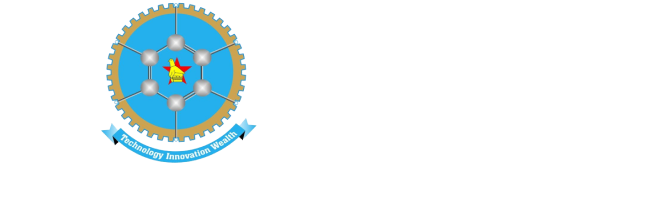
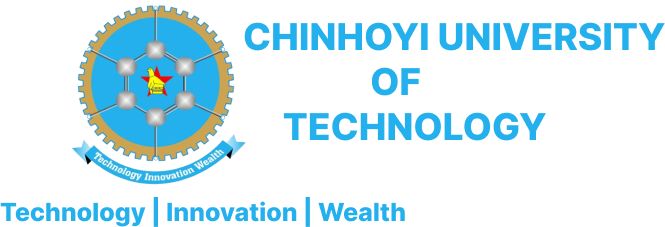
commit

diff --git a/src/assets/css/style.css b/src/assets/css/style.css
@@ -13,14 +13,14 @@ html {
 
 body {
   line-height: 1.7;
-  font-family: "Montserrat", sans-serif;
+  font-family: 'Poppins', sans-serif;
   -webkit-font-smoothing: antialiased;
   font-size: 16px;
   color: #464646;
 }
 
 h1, .h1, h2, .h2, h3, .h3, h4, .h4, h5, .h5, h6, .h6 {
-  font-family: "Bitter", serif;
+font-family: 'Raleway', sans-serif;
   font-weight: 900;
   color: #232323;
 }
@@ -28,8 +28,8 @@ h1, .h1, h2, .h2, h3, .h3, h4, .h4, h5, .h5, h6, .h6 {
 
 
 .navbar{
-  background-color: #24b0ed;
-  
+  background-color: #fff;
+  height: 70px;
 }
 
 h1, .h1 {
@@ -307,7 +307,7 @@ a {
 }
 
 a:focus, a:hover {
-  color: #caa555;
+  color: #435AC3;
   text-decoration: none;
 }
 
@@ -531,6 +531,7 @@ ul.list-styled {
 }
 #navbar li.navbar-item:last-child .navbar-link {
   padding-right: 0;
+  text-decoration: none !important;
 }
 @media (max-width: 1023px) {
   #navbar li.navbar-item:last-child .navbar-link {
@@ -539,16 +540,17 @@ ul.list-styled {
 }
 #navbar .navbar-link {
   font-family: "Montserrat", sans-serif;
-  color: #fff;
+  color: #0a0a0a;
   background-color: transparent !important;
   text-transform: capitalize;
-  font-weight: 300;
-  padding: 30px 17px;
+  font-weight: 200;
+  text-decoration: none;
+  padding: 17px 17px;
   transition: all 0.25s ease;
 }
 @media (max-width: 1215px) {
   #navbar .navbar-link {
-    padding: 30px 14px;
+    padding: 20px 14px;
     font-size: 15px;
   }
 }
@@ -566,9 +568,11 @@ ul.list-styled {
 }
 
 .header-top {
-  border-bottom: 1px solid rgba(254, 254, 254, 0.179);
+  border-bottom: 1px solid rgba(146, 90, 35, 0.179);
   font-size: 14px;
   background-color: #24b0ed;
+
+  align-items: center;
 }
 @media (max-width: 1023px) {
   .header-top {
@@ -576,10 +580,12 @@ ul.list-styled {
   }
 }
 .header-top .top-btn {
-  padding: 14px 25px;
+  padding: 3px 25px;
   background: #caa555;
-  line-height: 40px;
+  line-height: 30px;
+  border-radius: 60px;
   color: #fff;
+  text-decoration: none;
 }
 @media (max-width: 400px) {
   .header-top .top-btn {
@@ -592,7 +598,7 @@ ul.list-styled {
   }
 }
 .header-top .top-btn:hover {
-  background: #caa555;
+  background: #203389;
 }
 .header-top .header-top-right a {
   margin: 0 10px;
@@ -643,9 +649,13 @@ ul.list-styled {
   border-radius: 7px;
   display: block;
   border: 2px;
-  border-bottom: 3px solid #24B0ED !important;
+  border-bottom: 3px solid #CAA350 !important;
+  border-right: 3px solid #CAA350 !important;
+  border-left: 3px solid #CAA350 !important;
   z-index: -1;
   border: #caa555;
+  text-decoration: none;
+
 
 
 }
@@ -660,7 +670,7 @@ ul.list-styled {
     opacity: 1;
     margin: auto;
     text-align: center;
-    background: #c4c1c1;
+    background: #f9f9f9;
     width: 250px;
     border: 1px solid rgba(0, 0, 0, 0.03);
     border-bottom: 0;
@@ -679,11 +689,13 @@ ul.list-styled {
 }
 
 .navbar-dropdown .navbar-item {
-  padding: 0.2rem 1.5rem;
+  padding: 0rem 1.5rem;
   font-size: 14px;
   font-weight: 600;
-  color: rgba(0, 0, 0, 0.7);
-  border-bottom: 1px solid rgba(0, 0, 0, 0.03);
+  font-family: 'Poppins', sans-serif;
+  color: #000;
+  text-decoration: none;
+  border-bottom: 3px solid rgba(0, 0, 0, 0.03);
   
 }
 .navbar-dropdown .navbar-item:hover {
@@ -729,13 +741,14 @@ ul.list-styled {
   background: url("../images/bg/banner.jpg") no-repeat;
   background-size: cover;
   background-position: 10% 0%;
-  padding: 100px 0;
+  padding: 200px 0;
   position: relative;
 }
 .slider .block h1 {
-  font-size: 80px;
+  font-size: 30px;
   line-height: 80px;
   color: #fff;
+ 
 }
 .slider .block p {
   color: #b9b9b9;
@@ -743,7 +756,7 @@ ul.list-styled {
 
 @media (max-width: 400px) {
   .slider .block h1 {
-    font-size: 41px;
+    font-size: 3px;
     line-height: 57px;
   }
 }
@@ -758,8 +771,8 @@ ul.list-styled {
 }
 @media (max-width: 575px) {
   .slider .block h1 {
-    font-size: 38px;
-    line-height: 50px;
+    font-size: 30px !important;
+    line-height: 35px !important;
   }
   .slider {
     padding: 126px 0 151px 0;

diff --git a/src/app/layouts/header/header.component.html b/src/app/layouts/header/header.component.html
@@ -4,18 +4,17 @@
 			<div class="columns is-gapless is-justify-content-space-between is-align-items-center">
 				<div class="column is-6-desktop is-4-tablet has-text-left-desktop has-text-centered-mobile">
 					<div class="header-top-info">
-						<a href="tel:+263 6721 22203-5"><i style="color: #fff;"  class="icofont-phone mr-2"></i><span style="color: #fff;">+263 6721 22203-5</span></a>
-						<a href="mailto:support@gmail.com" ><i style="color: #fff;" class="icofont-email mr-2"></i><span style="color: #fff;">admissions.cut.ac.zw</span></a>
-                        <a href="mailto:support@gmail.com" ><i style="color: #fff; font-weight: 600;" class=" mr-6"></i><span style="color: #fff;">Track online application button</span></a>
+						<a style="text-decoration: none;" href="tel:+263 6721 22203-5"><i style="color: #fff;"  class="icofont-phone mr-2"></i><span style="color: #fff;">+263 6721 22203-5</span></a>					
+						<a style="text-decoration: none;" href="mailto:support@gmail.com" ><i style="color: #fff;" class="icofont-email  mr-2"></i><span style="color: #fff;">admissions.cut.ac.zw</span></a>
 					</div>
 				</div>
               
 				<div class="column is-6-desktop is-8-tablet">
 					<div class="header-top-right has-text-right-tablet has-text-centered-mobile">
-						<a href="https://www.facebook.com/themefisher" target="_blank"><i style="color: #fff;" class="icofont-facebook"></i></a>
-						<a href="https://twitter.com/themefisher" target="_blank"><i style="color: #fff;" class="icofont-twitter"></i></a>
-						<a href="#" target="_blank"><i style="color: #fff;" class="icofont-linkedin"></i></a>
-						<a href="donation.html" class="top-btn">Apply Now</a>
+						<a style="text-decoration: none;" href="https://www.facebook.com/themefisher" target="_blank"><i style="color: #fff;" class="icofont-facebook"></i></a>
+						<a style="text-decoration: none;" href="https://twitter.com/themefisher" target="_blank"><i style="color: #fff;" class="icofont-twitter"></i></a>
+						<a style="text-decoration: none;" href="#" target="_blank"><i style="color: #fff;" class="icofont-linkedin"></i></a>
+						<a style="text-decoration: none;" href="donation.html" class="top-btn" >Apply Now !</a>
 					</div>
 				</div>
                 
@@ -26,7 +25,7 @@
 		<div class="container">
 			<div class="navbar-brand">
 				<a class="navbar-item" href="index.html">
-					<img src="assets/images/lgg.png" alt="logo">
+					<img class="logo-img" style="padding-bottom: 10px;" src="assets/images/logg.png" alt="logo">
 				</a>
 				<button role="button" class="navbar-burger burger" data-hidden="true" data-target="navigation">
 					<span aria-hidden="true"></span>
@@ -36,7 +35,7 @@
 			</div>
 
 			<div class="navbar-menu mr-0" id="navigation">
-				<ul class="navbar-end">					 
+				<ul class="navbar-end ">					 
 					<li class="navbar-item">
 						<a class="navbar-link" href="index.html">Home</a>
 					</li>
@@ -98,7 +97,7 @@
 						<a class="navbar-link" href="contact.html">About Us</a>
 					</li>
                     <li class="navbar-item">
-						<a class="navbar-link" href="contact.html">Contact</a>
+						<a class="navbar-link" href="contact.html">Contact Us</a>
 					</li>
 				</ul>
 			</div>

diff --git a/src/index.html b/src/index.html
@@ -6,9 +6,6 @@
   <base href="/">
   <meta name="viewport" content="width=device-width, initial-scale=1">
   <link rel="icon" type="image/x-icon" href="favicon.ico">
-   
-  <!-- theme meta -->
-  <meta name="theme-name" content="wishfund-bulma" />
   <!-- bootstrap.min css -->
   <link rel="stylesheet" href="assets/plugins/bulma/bulma.min.css">
   <!-- Icon Font Css -->
@@ -19,6 +16,9 @@
   <link rel="stylesheet" href="assets/plugins/slick-carousel/slick/slick.css">
   <link rel="stylesheet" href="assets/plugins/slick-carousel/slick/slick-theme.css">
   <link rel="stylesheet" href="assets/plugins/modal-video/modal-video.min.css">
+  <link rel="preconnect" href="https://fonts.googleapis.com">
+<link rel="preconnect" href="https://fonts.gstatic.com" crossorigin>
+<link href="https://fonts.googleapis.com/css2?family=Poppins:wght@200&family=Raleway:wght@600&display=swap" rel="stylesheet">
 
   <!-- Main Stylesheet -->
   <link rel="stylesheet" href="assets/css/style.css">

diff --git a/src/app/app.module.ts b/src/app/app.module.ts
@@ -6,6 +6,8 @@ import { AppComponent } from './app.component';
 import { HomeComponent } from './components/home/home.component';
 import { HeaderComponent } from './layouts/header/header.component';
 import { FooterComponent } from './layouts/footer/footer.component';
+import { NgbModule } from '@ng-bootstrap/ng-bootstrap';
+
 
 @NgModule({
   declarations: [
@@ -16,7 +18,8 @@ import { FooterComponent } from './layouts/footer/footer.component';
   ],
   imports: [
     BrowserModule,
-    AppRoutingModule
+    AppRoutingModule,
+    NgbModule
   ],
   providers: [],
   bootstrap: [AppComponent]

diff --git a/src/app/components/home/home.component.html b/src/app/components/home/home.component.html
@@ -1,0 +1,15 @@
+<ngb-carousel>
+    <ng-template ngbSlide>
+      <img src="/assets/images/bg/bg1.png" alt="Slide 1">
+      <div class="carousel-caption">
+        <h3>CUT 19th Graduation</h3>
+      </div>
+    </ng-template>
+    <ng-template ngbSlide>
+        <img src="/assets/images/bg/banner.jpg" alt="Slide 1">
+        <div class="carousel-caption">
+            <h3>CUT 19th Graduation</h3>
+        </div>
+      </ng-template>
+    <!-- Add more slides as needed -->
+  </ngb-carousel>

diff --git a/src/app/components/home/home.component.css b/src/app/components/home/home.component.css
@@ -1,0 +1,21 @@
+.card{
+    background-color: #343333;
+    opacity: 0.4;
+    border-bottom: 2px solid #CAA350;
+    border-top: 2px solid #CAA350;  
+  
+}
+
+.carousel-caption {
+    position: absolute;
+    top: 50%;
+    left: 50%;
+    transform: translate(-50%, -50%);
+    text-align: center;
+    color: #fff;
+    height: 100px;
+    background-color: #101010;
+    opacity: 0.7;
+    border-bottom: 2px solid #CAA350;
+    border-top: 2px solid #CAA350;  
+  }

diff --git a/src/app/layouts/header/header.component.css b/src/app/layouts/header/header.component.css
@@ -1,0 +1,12 @@
+.header__topleftmenu li {
+    background: #fff;
+    content: "";
+    width: 1px;
+    height: 14px;
+    position: absolute;
+    top: 0;
+    bottom: 0;
+    right: 0;
+    margin: auto;
+}
+

diff --git a/src/main.ts b/src/main.ts
@@ -1,3 +1,5 @@
+/// <reference types="@angular/localize" />
+
 import { platformBrowserDynamic } from '@angular/platform-browser-dynamic';
 
 import { AppModule } from './app/app.module';
